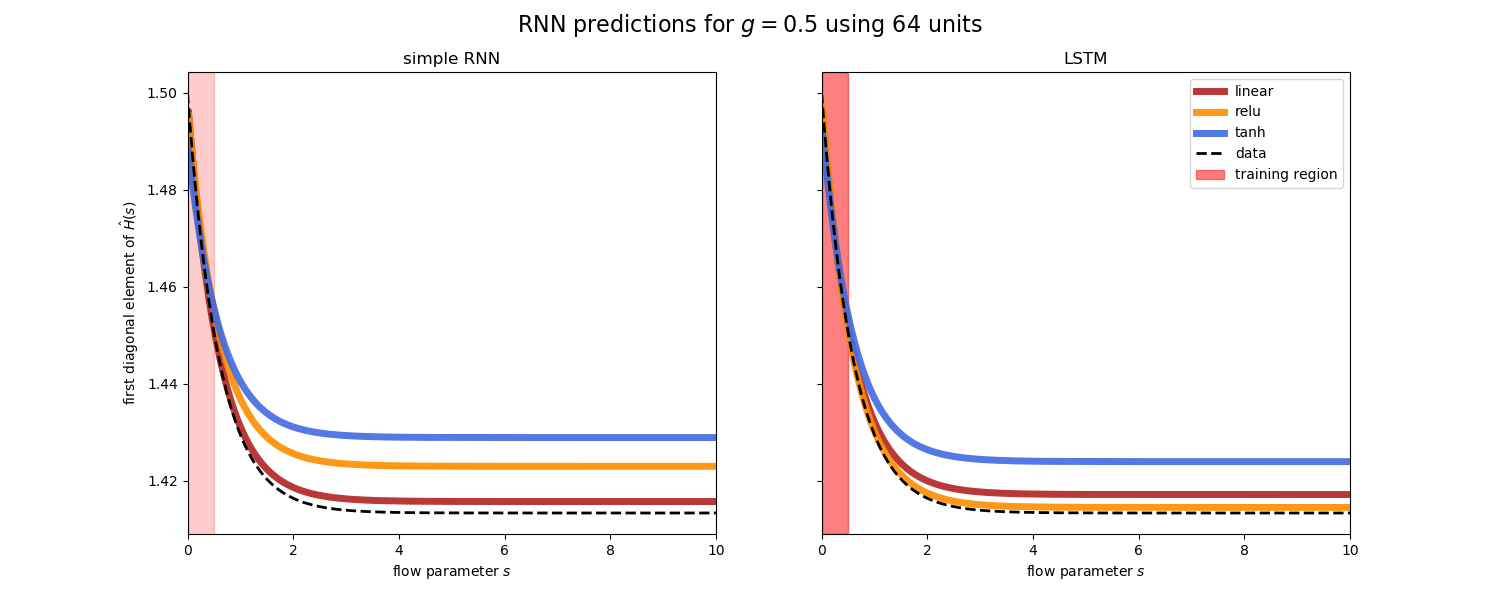
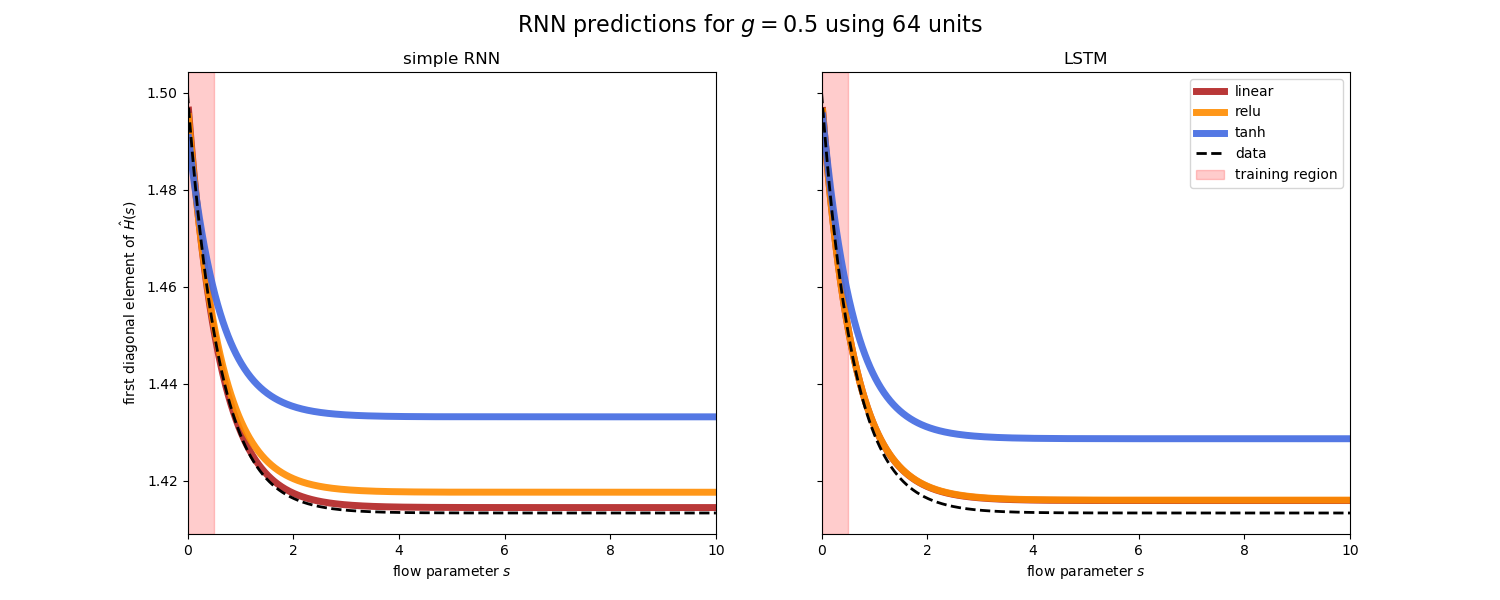
reran for layer1

Changed region(s): [[0.5213, 0.12, 0.92, 0.9], [0.1227, 0.3, 0.4907, 0.87], [0.7973, 0.27, 0.828, 0.3]]

diff --git a/rnnrg/main.py b/rnnrg/main.py
@@ -2,17 +2,17 @@ from plot import sidebyside_predictions
 
 def main():
 
-    #units_list = [[2**i] for i in range(2, 11)]
-    #sidebyside_predictions(units_list, 'layers1')
+    units_list = [[2**i] for i in range(3, 12)]
+    sidebyside_predictions(units_list, 'layers1')
     
     #fixed_total_units = 128
     #units_list = [[i, fixed_total_units-i] for i in range(8, fixed_total_units, 8)]
     #sidebyside_predictions(units_list, 'layers2')
     
     
-    units_list = [[30,30,120], [30,60,90], [30,90,60], [30,120,30], [60,30,90], \
-                  [60,60,60], [60,90,30], [90,30,60], [90,60,30], [120,30,30]]
-    sidebyside_predictions(units_list, 'layers3')
+    #units_list = [[30,30,120], [30,60,90], [30,90,60], [30,120,30], [60,30,90], \
+    #              [60,60,60], [60,90,30], [90,30,60], [90,60,30], [120,30,30]]
+    #sidebyside_predictions(units_list, 'layers3')
     
     
 
